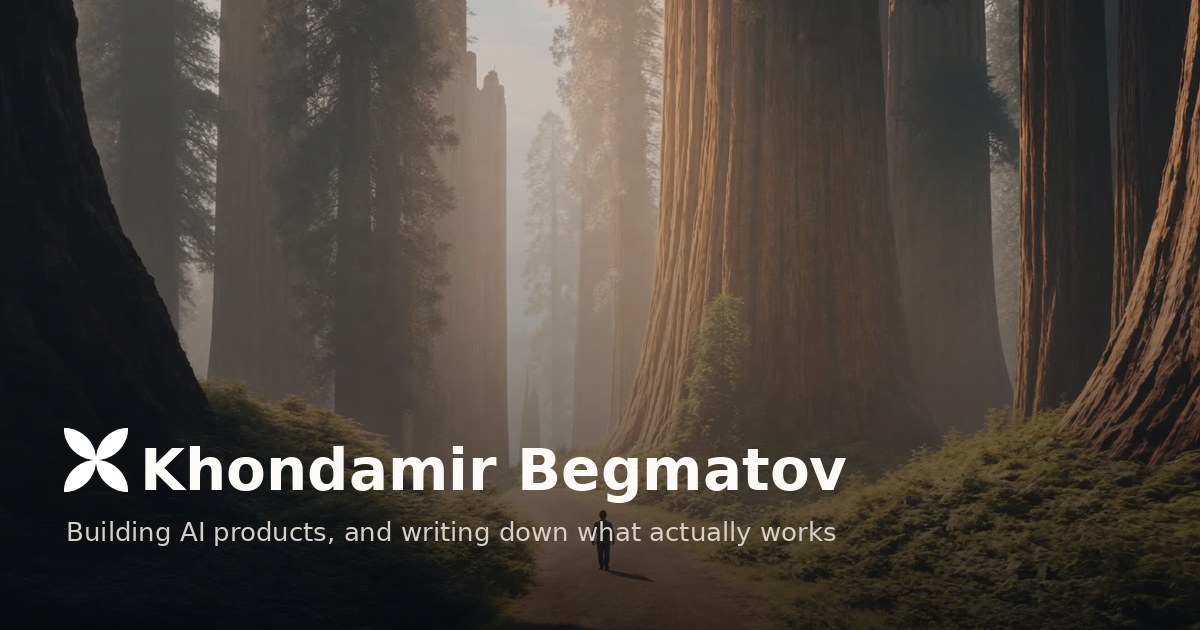
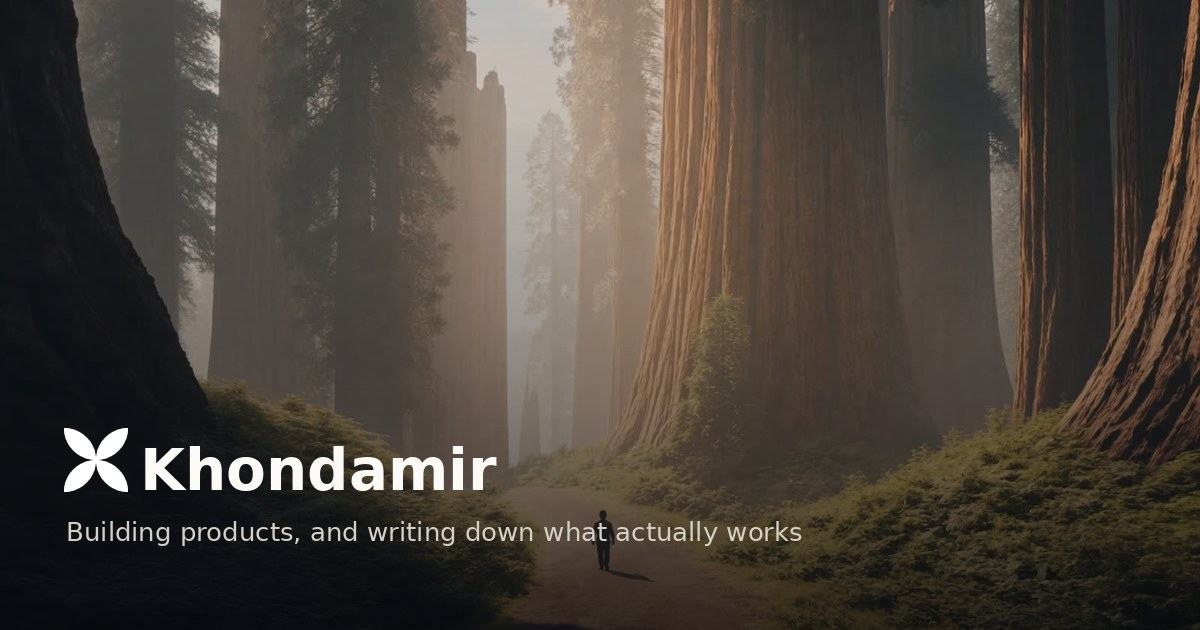
335

Changed region(s): [[0.1542, 0.6937, 0.7092, 0.8746]]

diff --git a/src/pages/rss.xml.js b/src/pages/rss.xml.js
@@ -13,7 +13,7 @@ export async function GET() {
     </item>`).join('\n');
   const xml = `<?xml version="1.0" encoding="UTF-8"?>
 <rss version="2.0"><channel>
-    <title>Khondamir Begmatov — Blog</title>
+    <title>Khondamir — Blog</title>
     <link>${SITE.domain}/en/blog</link>
     <description>AI news and analysis through a builder's lens</description>
     <language>en</language>

diff --git a/src/consts.ts b/src/consts.ts
@@ -4,7 +4,7 @@
 // ============================================================
 
 export const SITE = {
-  name: 'Khondamir Begmatov',
+  name: 'Khondamir',
   // REPLACE with your real URL once deployed (used for SEO/OG tags & sitemap).
   domain: 'https://moremaekjupls.github.io',
 };
